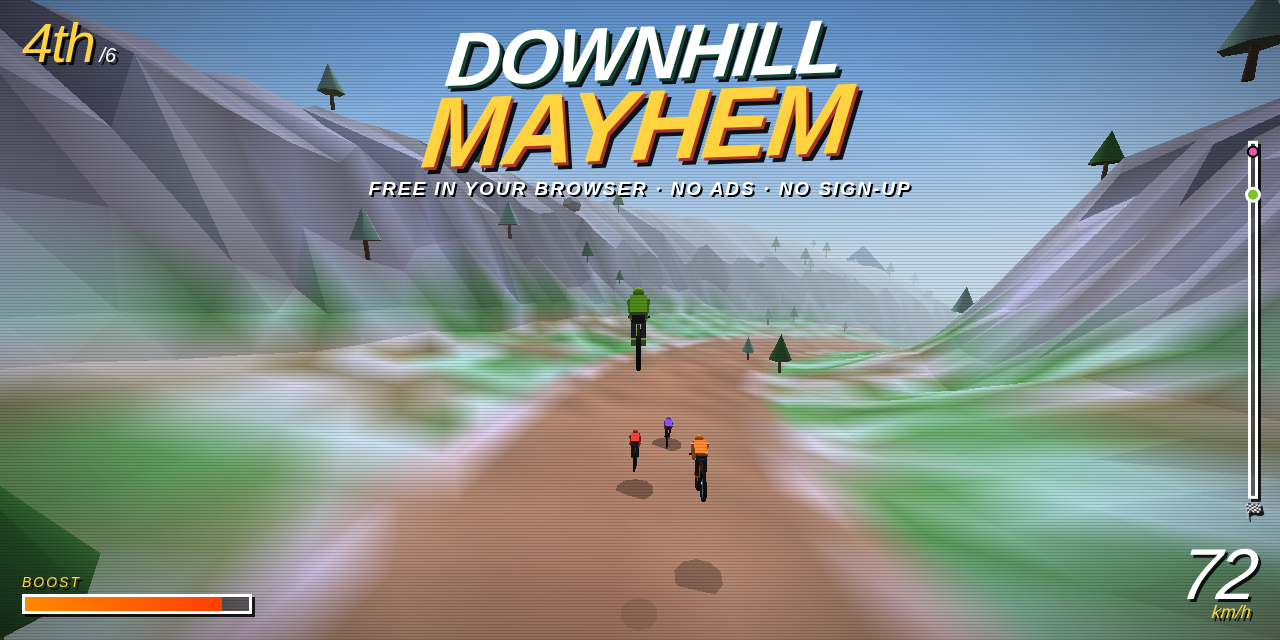
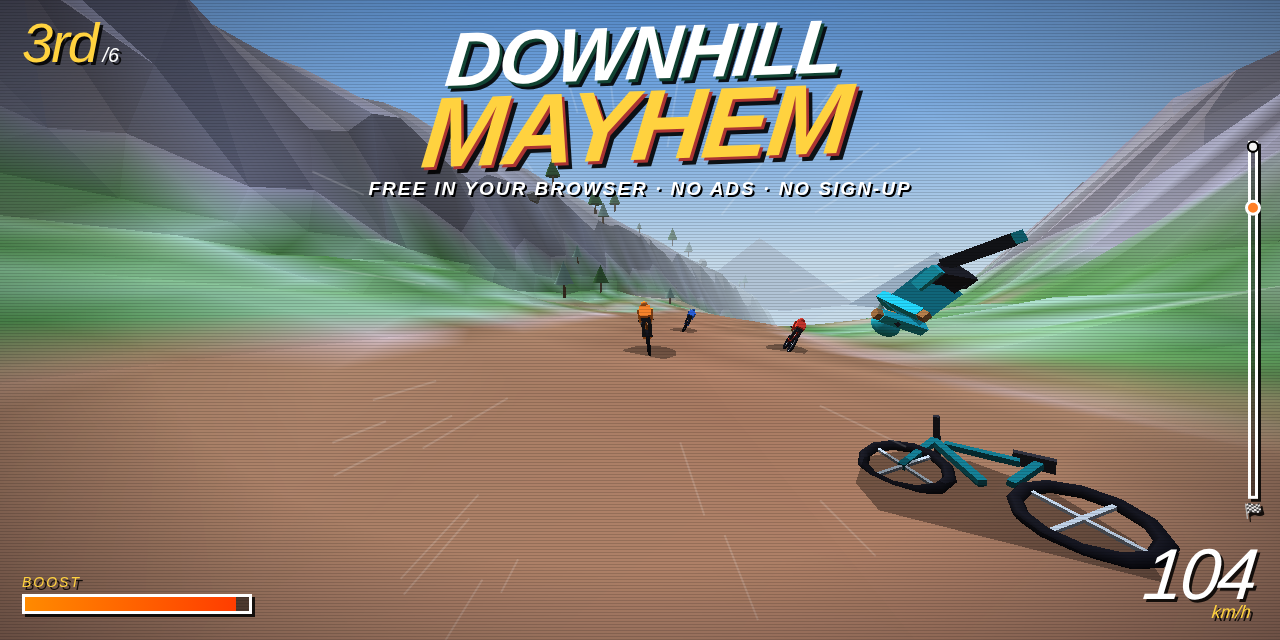
All-gas demo GIF and a mid-kick social card
The old GIF had the player parked, waiting for the payback — dead air.
The new take never drops below race pace: a 130 km/h boost into the
ramp, a Superman over the pack, landing straight into a kick that decks
DIESEL at speed, then racing flat out while the red-glowing avenger
runs the player down for a full-speed payback wipeout. The recorder is
now state-driven — every beat (trick, kick, payback) is verified
in-engine and a bad take fails instead of shipping.

The social card swaps the calm air shot for the kick connecting at
104 km/h: victim flying head-first, his bike sliding through the
foreground, boost speed lines, pack up the trail.

Claude-Session: https://claude.ai/code/session_012EYQ48rDeCTBKNpKg6XZBk

diff --git a/README.md b/README.md
@@ -6,7 +6,7 @@ that charge a boost meter and fists (and boots) that settle position disputes.
 
 <p align="center">
   <a href="https://pranshuparmar.github.io/downhill-mayhem/">
-    <img src="media/demo.gif" alt="Twelve seconds of DOWNHILL MAYHEM: throwing a Superman off a ramp, boosting, punching DIESEL off his bike — then DIESEL hunting the player down and getting payback" width="480">
+    <img src="media/demo.gif" alt="Twelve seconds of DOWNHILL MAYHEM: a 130 km/h boost into a ramp, a Superman over the pack, kicking DIESEL off his bike at speed — and DIESEL running the player down for payback" width="480">
   </a>
   <br>
   <b><a href="https://pranshuparmar.github.io/downhill-mayhem/">▶ PLAY NOW — free, in your browser</a></b>